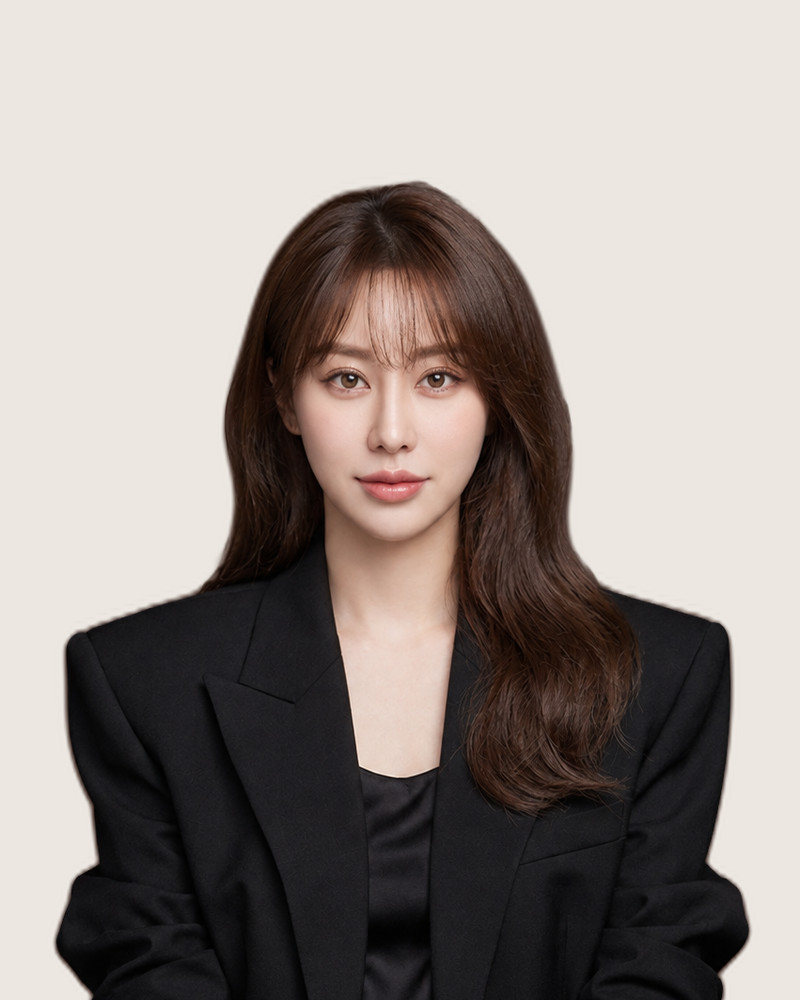
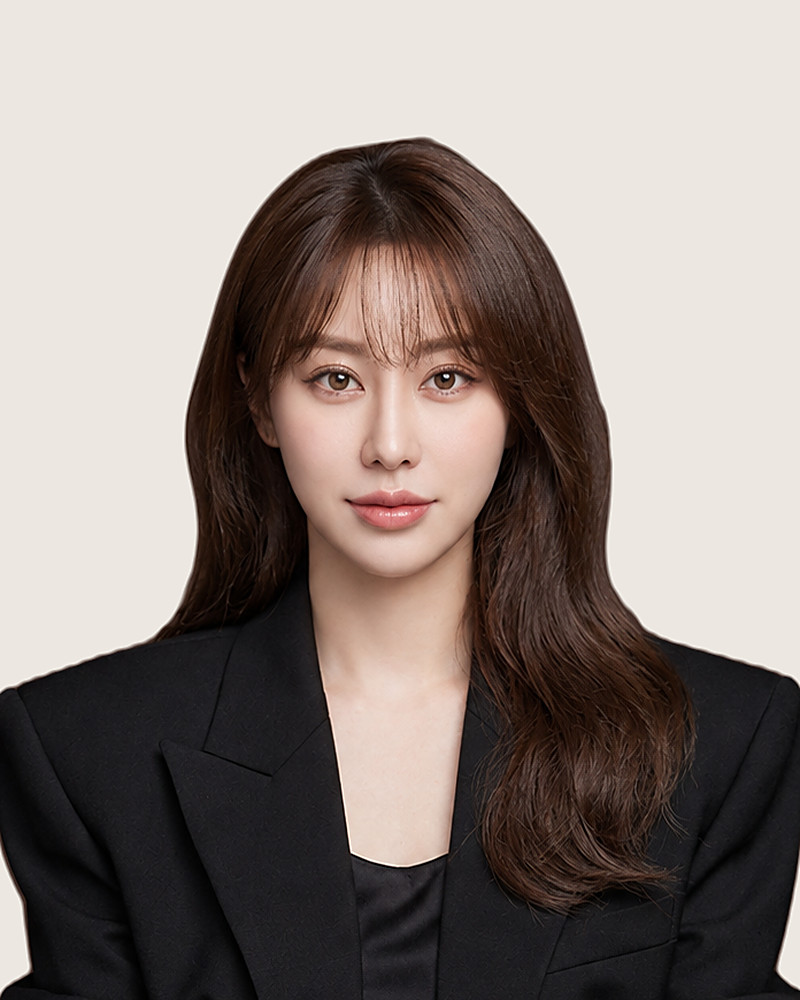
디자이너 사진 보정: 얼굴 비율 키우고 인물 경계 정리

diff --git a/ja/designers/index.html b/ja/designers/index.html
@@ -317,7 +317,7 @@
     <nav class="designer-jump" aria-label="デザイナーへ移動"><a href="#designer-hyeona"><span class="nw">Hyeona</span>（<span class="nw">현아</span>）<small>副院長</small></a><a href="#designer-yumi"><span class="nw">Yumi</span>（<span class="nw">유미</span>）<small><span class="nw">ディレクター</span></small></a><a href="#designer-yeongju"><span class="nw">Yeongju</span>（<span class="nw">영주</span>）<small><span class="nw">ディレクター</span></small></a><a href="#designer-miji"><span class="nw">Miji</span> Lee（<span class="nw">이미지</span>）<small>副院長</small></a></nav>
     <div class="designer-grid">
       <article class="designer-card" id="designer-hyeona">
-        <img src="/images/designer-hyeona.jpg?v=c38ec761" alt="清州市慕忠洞の美容室 RIAHN Hair Mochung SeowondaeのHyeona（현아） 副院長 - レイヤードCカール・CSカール・ビルドパーマ・ゼリーパーマ・ビンテージパーマ・アイロンパーマ・ホットパーマ・補修パーマ" width="800" height="1000" loading="eager" fetchpriority="high">
+        <img src="/images/designer-hyeona.jpg?v=c3d0188e" alt="清州市慕忠洞の美容室 RIAHN Hair Mochung SeowondaeのHyeona（현아） 副院長 - レイヤードCカール・CSカール・ビルドパーマ・ゼリーパーマ・ビンテージパーマ・アイロンパーマ・ホットパーマ・補修パーマ" width="800" height="1000" loading="eager" fetchpriority="high">
         <div class="designer-body">
           <div class="role"><span class="nw">Deputy</span> <span class="nw">Director</span></div>
           <h3><span class="ks"><span class="nw">Hyeona</span>（<span class="nw">현아</span>）</span> <small>副院長</small></h3>
@@ -328,7 +328,7 @@
         </div>
       </article>
       <article class="designer-card" id="designer-yumi">
-        <img src="/images/designer-yumi.jpg?v=abbf6bdf" alt="清州市慕忠洞の美容室 RIAHN Hair Mochung SeowondaeのYumi（유미） ディレクター - ビルドパーマ・ゼリーパーマ・ビンテージパーマ・補修パーマ・タッセルカット・ハッシュカット・ブリーチ・デザインカラー・パーソナルカラー" width="800" height="1000" loading="lazy">
+        <img src="/images/designer-yumi.jpg?v=b0565e35" alt="清州市慕忠洞の美容室 RIAHN Hair Mochung SeowondaeのYumi（유미） ディレクター - ビルドパーマ・ゼリーパーマ・ビンテージパーマ・補修パーマ・タッセルカット・ハッシュカット・ブリーチ・デザインカラー・パーソナルカラー" width="800" height="1000" loading="lazy">
         <div class="designer-body">
           <div class="role"><span class="nw">Director</span></div>
           <h3><span class="ks"><span class="nw">Yumi</span>（<span class="nw">유미</span>）</span> <small><span class="nw">ディレクター</span></small></h3>
@@ -340,7 +340,7 @@
         </div>
       </article>
       <article class="designer-card" id="designer-yeongju">
-        <img src="/images/designer-yeongju.jpg?v=1d1102d5" alt="清州市慕忠洞の美容室 RIAHN Hair Mochung SeowondaeのYeongju（영주） ディレクター - ビルドパーマ・リーフパーマ・アイロンパーマ・CSカール・リーフカット" width="800" height="1000" loading="lazy">
+        <img src="/images/designer-yeongju.jpg?v=ee4fe6c3" alt="清州市慕忠洞の美容室 RIAHN Hair Mochung SeowondaeのYeongju（영주） ディレクター - ビルドパーマ・リーフパーマ・アイロンパーマ・CSカール・リーフカット" width="800" height="1000" loading="lazy">
         <div class="designer-body">
           <div class="role"><span class="nw">Director</span></div>
           <h3><span class="ks"><span class="nw">Yeongju</span>（<span class="nw">영주</span>）</span> <small><span class="nw">ディレクター</span></small></h3>
@@ -352,7 +352,7 @@
         </div>
       </article>
       <article class="designer-card" id="designer-miji">
-        <img src="/images/designer-miji.jpg?v=108b34a3" alt="清州市慕忠洞の美容室 RIAHN Hair Mochung SeowondaeのMiji Lee（이미지） 副院長 - ビルドパーマ・CSパーマ・アイロンパーマ・リーフパーマ・毛流れ矯正・補修パーマ・ホットパーマ・アッシュグレー" width="800" height="1000" loading="lazy">
+        <img src="/images/designer-miji.jpg?v=d2a24d91" alt="清州市慕忠洞の美容室 RIAHN Hair Mochung SeowondaeのMiji Lee（이미지） 副院長 - ビルドパーマ・CSパーマ・アイロンパーマ・リーフパーマ・毛流れ矯正・補修パーマ・ホットパーマ・アッシュグレー" width="800" height="1000" loading="lazy">
         <div class="designer-body">
           <div class="role"><span class="nw">Deputy</span> <span class="nw">Director</span></div>
           <h3><span class="ks"><span class="nw">Miji</span> Lee（<span class="nw">이미지</span>）</span> <small>副院長</small></h3>

diff --git a/zh/designers/index.html b/zh/designers/index.html
@@ -317,7 +317,7 @@
     <nav class="designer-jump" aria-label="快速查看设计师"><a href="#designer-hyeona"><span class="nw">Hyeona</span>（<span class="nw">현아</span>）<small>副<span class="nw">院长</span></small></a><a href="#designer-yumi"><span class="nw">Yumi</span>（<span class="nw">유미</span>）<small><span class="nw">总监</span></small></a><a href="#designer-yeongju"><span class="nw">Yeongju</span>（<span class="nw">영주</span>）<small><span class="nw">总监</span></small></a><a href="#designer-miji"><span class="nw">Miji</span> Lee（<span class="nw">이미지</span>）<small>副<span class="nw">院长</span></small></a></nav>
     <div class="designer-grid">
       <article class="designer-card" id="designer-hyeona">
-        <img src="/images/designer-hyeona.jpg?v=c38ec761" alt="清州市慕忠洞美发沙龙 RIAHN Hair Mochung Seowondae Hyeona（현아） 副院长 - 层次C卷、CS卷、Build烫、果冻烫、复古烫、卷棒烫、热烫、修护烫" width="800" height="1000" loading="eager" fetchpriority="high">
+        <img src="/images/designer-hyeona.jpg?v=c3d0188e" alt="清州市慕忠洞美发沙龙 RIAHN Hair Mochung Seowondae Hyeona（현아） 副院长 - 层次C卷、CS卷、Build烫、果冻烫、复古烫、卷棒烫、热烫、修护烫" width="800" height="1000" loading="eager" fetchpriority="high">
         <div class="designer-body">
           <div class="role"><span class="nw">Deputy</span> <span class="nw">Director</span></div>
           <h3><span class="ks"><span class="nw">Hyeona</span>（<span class="nw">현아</span>）</span> <small>副<span class="nw">院长</span></small></h3>
@@ -328,7 +328,7 @@
         </div>
       </article>
       <article class="designer-card" id="designer-yumi">
-        <img src="/images/designer-yumi.jpg?v=abbf6bdf" alt="清州市慕忠洞美发沙龙 RIAHN Hair Mochung Seowondae Yumi（유미） 总监 - Build烫、果冻烫、复古烫、修护烫、流苏剪、Hush剪、漂发、设计染发、个人色彩染发" width="800" height="1000" loading="lazy">
+        <img src="/images/designer-yumi.jpg?v=b0565e35" alt="清州市慕忠洞美发沙龙 RIAHN Hair Mochung Seowondae Yumi（유미） 总监 - Build烫、果冻烫、复古烫、修护烫、流苏剪、Hush剪、漂发、设计染发、个人色彩染发" width="800" height="1000" loading="lazy">
         <div class="designer-body">
           <div class="role"><span class="nw">Director</span></div>
           <h3><span class="ks"><span class="nw">Yumi</span>（<span class="nw">유미</span>）</span> <small><span class="nw">总监</span></small></h3>
@@ -340,7 +340,7 @@
         </div>
       </article>
       <article class="designer-card" id="designer-yeongju">
-        <img src="/images/designer-yeongju.jpg?v=1d1102d5" alt="清州市慕忠洞美发沙龙 RIAHN Hair Mochung Seowondae Yeongju（영주） 总监 - Build烫、叶子烫、卷棒烫、CS卷、叶子剪" width="800" height="1000" loading="lazy">
+        <img src="/images/designer-yeongju.jpg?v=ee4fe6c3" alt="清州市慕忠洞美发沙龙 RIAHN Hair Mochung Seowondae Yeongju（영주） 总监 - Build烫、叶子烫、卷棒烫、CS卷、叶子剪" width="800" height="1000" loading="lazy">
         <div class="designer-body">
           <div class="role"><span class="nw">Director</span></div>
           <h3><span class="ks"><span class="nw">Yeongju</span>（<span class="nw">영주</span>）</span> <small><span class="nw">总监</span></small></h3>
@@ -352,7 +352,7 @@
         </div>
       </article>
       <article class="designer-card" id="designer-miji">
-        <img src="/images/designer-miji.jpg?v=108b34a3" alt="清州市慕忠洞美发沙龙 RIAHN Hair Mochung Seowondae Miji Lee（이미지） 副院长 - Build烫、CS烫、卷棒烫、叶子烫、发流矫正、修护烫、热烫、烟灰色" width="800" height="1000" loading="lazy">
+        <img src="/images/designer-miji.jpg?v=d2a24d91" alt="清州市慕忠洞美发沙龙 RIAHN Hair Mochung Seowondae Miji Lee（이미지） 副院长 - Build烫、CS烫、卷棒烫、叶子烫、发流矫正、修护烫、热烫、烟灰色" width="800" height="1000" loading="lazy">
         <div class="designer-body">
           <div class="role"><span class="nw">Deputy</span> <span class="nw">Director</span></div>
           <h3><span class="ks"><span class="nw">Miji</span> Lee（<span class="nw">이미지</span>）</span> <small>副<span class="nw">院长</span></small></h3>

diff --git a/en/designers/index.html b/en/designers/index.html
@@ -317,7 +317,7 @@
     <nav class="designer-jump" aria-label="Jump to a designer"><a href="#designer-hyeona">Hyeona<small>Deputy Director</small></a><a href="#designer-yumi">Yumi<small>Director</small></a><a href="#designer-yeongju">Yeongju<small>Director</small></a><a href="#designer-miji">Miji Lee<small>Deputy Director</small></a></nav>
     <div class="designer-grid">
       <article class="designer-card" id="designer-hyeona">
-        <img src="/images/designer-hyeona.jpg?v=c38ec761" alt="Hyeona, Deputy Director - Layered C-curl · CS curl · Build perm · Jelly perm · Vintage perm · Iron perm · Heat perm · Repair perm at RIAHN Hair Mochung Seowondae, Mochung-dong, Cheongju" width="800" height="1000" loading="eager" fetchpriority="high">
+        <img src="/images/designer-hyeona.jpg?v=c3d0188e" alt="Hyeona, Deputy Director - Layered C-curl · CS curl · Build perm · Jelly perm · Vintage perm · Iron perm · Heat perm · Repair perm at RIAHN Hair Mochung Seowondae, Mochung-dong, Cheongju" width="800" height="1000" loading="eager" fetchpriority="high">
         <div class="designer-body">
           <div class="role">Deputy Director</div>
           <h3><span class="ks">Hyeona</span> <small>Deputy Director</small></h3>
@@ -328,7 +328,7 @@
         </div>
       </article>
       <article class="designer-card" id="designer-yumi">
-        <img src="/images/designer-yumi.jpg?v=abbf6bdf" alt="Yumi, Director - Build perm · Jelly perm · Vintage perm · Repair perm · Tassel cut · Hush cut · Bleach · Design color · Personal color at RIAHN Hair Mochung Seowondae, Mochung-dong, Cheongju" width="800" height="1000" loading="lazy">
+        <img src="/images/designer-yumi.jpg?v=b0565e35" alt="Yumi, Director - Build perm · Jelly perm · Vintage perm · Repair perm · Tassel cut · Hush cut · Bleach · Design color · Personal color at RIAHN Hair Mochung Seowondae, Mochung-dong, Cheongju" width="800" height="1000" loading="lazy">
         <div class="designer-body">
           <div class="role">Director</div>
           <h3><span class="ks">Yumi</span> <small>Director</small></h3>
@@ -340,7 +340,7 @@
         </div>
       </article>
       <article class="designer-card" id="designer-yeongju">
-        <img src="/images/designer-yeongju.jpg?v=1d1102d5" alt="Yeongju, Director - Build perm · Leaf perm · Iron perm · CS curl · Leaf cut at RIAHN Hair Mochung Seowondae, Mochung-dong, Cheongju" width="800" height="1000" loading="lazy">
+        <img src="/images/designer-yeongju.jpg?v=ee4fe6c3" alt="Yeongju, Director - Build perm · Leaf perm · Iron perm · CS curl · Leaf cut at RIAHN Hair Mochung Seowondae, Mochung-dong, Cheongju" width="800" height="1000" loading="lazy">
         <div class="designer-body">
           <div class="role">Director</div>
           <h3><span class="ks">Yeongju</span> <small>Director</small></h3>
@@ -352,7 +352,7 @@
         </div>
       </article>
       <article class="designer-card" id="designer-miji">
-        <img src="/images/designer-miji.jpg?v=108b34a3" alt="Miji Lee, Deputy Director - Build perm · CS perm · Iron perm · Leaf perm · Cowlick correction · Repair perm · Heat perm · Ash gray at RIAHN Hair Mochung Seowondae, Mochung-dong, Cheongju" width="800" height="1000" loading="lazy">
+        <img src="/images/designer-miji.jpg?v=d2a24d91" alt="Miji Lee, Deputy Director - Build perm · CS perm · Iron perm · Leaf perm · Cowlick correction · Repair perm · Heat perm · Ash gray at RIAHN Hair Mochung Seowondae, Mochung-dong, Cheongju" width="800" height="1000" loading="lazy">
         <div class="designer-body">
           <div class="role">Deputy Director</div>
           <h3><span class="ks">Miji Lee</span> <small>Deputy Director</small></h3>

diff --git a/designers/index.html b/designers/index.html
@@ -327,7 +327,7 @@
     <nav class="designer-jump" aria-label="디자이너 바로 가기"><a href="#designer-hyeona">현아<small>부원장</small></a><a href="#designer-yumi">유미<small>실장</small></a><a href="#designer-yeongju">영주<small>실장</small></a><a href="#designer-miji">이미지<small>부원장</small></a></nav>
     <div class="designer-grid">
       <article class="designer-card" id="designer-hyeona">
-        <img src="/images/designer-hyeona.jpg?v=c38ec761" alt="리안헤어 모충동서원대점 모충동 미용실 현아 부원장 - 레이어드 C컬 · CS컬 · 빌드펌 · 젤리펌 · 빈티지펌 · 아이롱펌 · 열펌 · 복구펌" width="800" height="1000" loading="eager" fetchpriority="high">
+        <img src="/images/designer-hyeona.jpg?v=c3d0188e" alt="리안헤어 모충동서원대점 모충동 미용실 현아 부원장 - 레이어드 C컬 · CS컬 · 빌드펌 · 젤리펌 · 빈티지펌 · 아이롱펌 · 열펌 · 복구펌" width="800" height="1000" loading="eager" fetchpriority="high">
         <div class="designer-body">
           <div class="role">Deputy Director</div>
           <h3><span class="ks">현아</span> <small>부원장</small></h3>
@@ -338,7 +338,7 @@
         </div>
       </article>
       <article class="designer-card" id="designer-yumi">
-        <img src="/images/designer-yumi.jpg?v=abbf6bdf" alt="리안헤어 모충동서원대점 모충동 미용실 유미 실장 - 빌드펌 · 젤리펌 · 빈티지펌 · 복구펌 · 태슬컷 · 허쉬컷 · 탈색 · 디자인 염색 · 퍼스널 컬러" width="800" height="1000" loading="lazy">
+        <img src="/images/designer-yumi.jpg?v=b0565e35" alt="리안헤어 모충동서원대점 모충동 미용실 유미 실장 - 빌드펌 · 젤리펌 · 빈티지펌 · 복구펌 · 태슬컷 · 허쉬컷 · 탈색 · 디자인 염색 · 퍼스널 컬러" width="800" height="1000" loading="lazy">
         <div class="designer-body">
           <div class="role">Director</div>
           <h3><span class="ks">유미</span> <small>실장</small></h3>
@@ -350,7 +350,7 @@
         </div>
       </article>
       <article class="designer-card" id="designer-yeongju">
-        <img src="/images/designer-yeongju.jpg?v=1d1102d5" alt="리안헤어 모충동서원대점 모충동 미용실 영주 실장 - 빌드펌 · 리프펌 · 아이롱펌 · CS컬 · 리프컷" width="800" height="1000" loading="lazy">
+        <img src="/images/designer-yeongju.jpg?v=ee4fe6c3" alt="리안헤어 모충동서원대점 모충동 미용실 영주 실장 - 빌드펌 · 리프펌 · 아이롱펌 · CS컬 · 리프컷" width="800" height="1000" loading="lazy">
         <div class="designer-body">
           <div class="role">Director</div>
           <h3><span class="ks">영주</span> <small>실장</small></h3>
@@ -362,7 +362,7 @@
         </div>
       </article>
       <article class="designer-card" id="designer-miji">
-        <img src="/images/designer-miji.jpg?v=108b34a3" alt="리안헤어 모충동서원대점 모충동 미용실 이미지 부원장 - 빌드펌 · CS펌 · 아이롱펌 · 리프펌 · 모류교정 · 복구펌 · 열펌 · 애쉬그레이" width="800" height="1000" loading="lazy">
+        <img src="/images/designer-miji.jpg?v=d2a24d91" alt="리안헤어 모충동서원대점 모충동 미용실 이미지 부원장 - 빌드펌 · CS펌 · 아이롱펌 · 리프펌 · 모류교정 · 복구펌 · 열펌 · 애쉬그레이" width="800" height="1000" loading="lazy">
         <div class="designer-body">
           <div class="role">Deputy Director</div>
           <h3><span class="ks">이미지</span> <small>부원장</small></h3>

diff --git a/ja/index.html b/ja/index.html
@@ -312,7 +312,7 @@
     </div>
     <div class="designer-grid">
       <article class="designer-card">
-        <img src="/images/designer-hyeona.jpg?v=c38ec761" alt="清州市慕忠洞の美容室 RIAHN Hair Mochung SeowondaeのHyeona（현아） 副院長 - レイヤードCカール・CSカール・ビルドパーマ・ゼリーパーマ・ビンテージパーマ・アイロンパーマ・ホットパーマ・補修パーマ" width="800" height="1000" loading="lazy">
+        <img src="/images/designer-hyeona.jpg?v=c3d0188e" alt="清州市慕忠洞の美容室 RIAHN Hair Mochung SeowondaeのHyeona（현아） 副院長 - レイヤードCカール・CSカール・ビルドパーマ・ゼリーパーマ・ビンテージパーマ・アイロンパーマ・ホットパーマ・補修パーマ" width="800" height="1000" loading="lazy">
         <div class="designer-body">
           <div class="role"><span class="nw">Deputy</span> <span class="nw">Director</span></div>
           <h3><span class="ks"><span class="nw">Hyeona</span>（<span class="nw">현아</span>）</span> <small>副院長</small></h3>
@@ -320,7 +320,7 @@
         </div>
       </article>
       <article class="designer-card">
-        <img src="/images/designer-yumi.jpg?v=abbf6bdf" alt="清州市慕忠洞の美容室 RIAHN Hair Mochung SeowondaeのYumi（유미） ディレクター - ビルドパーマ・ゼリーパーマ・ビンテージパーマ・補修パーマ・タッセルカット・ハッシュカット・ブリーチ・デザインカラー・パーソナルカラー" width="800" height="1000" loading="lazy">
+        <img src="/images/designer-yumi.jpg?v=b0565e35" alt="清州市慕忠洞の美容室 RIAHN Hair Mochung SeowondaeのYumi（유미） ディレクター - ビルドパーマ・ゼリーパーマ・ビンテージパーマ・補修パーマ・タッセルカット・ハッシュカット・ブリーチ・デザインカラー・パーソナルカラー" width="800" height="1000" loading="lazy">
         <div class="designer-body">
           <div class="role"><span class="nw">Director</span></div>
           <h3><span class="ks"><span class="nw">Yumi</span>（<span class="nw">유미</span>）</span> <small><span class="nw">ディレクター</span></small></h3>
@@ -329,7 +329,7 @@
         </div>
       </article>
       <article class="designer-card">
-        <img src="/images/designer-yeongju.jpg?v=1d1102d5" alt="清州市慕忠洞の美容室 RIAHN Hair Mochung SeowondaeのYeongju（영주） ディレクター - ビルドパーマ・リーフパーマ・アイロンパーマ・CSカール・リーフカット" width="800" height="1000" loading="lazy">
+        <img src="/images/designer-yeongju.jpg?v=ee4fe6c3" alt="清州市慕忠洞の美容室 RIAHN Hair Mochung SeowondaeのYeongju（영주） ディレクター - ビルドパーマ・リーフパーマ・アイロンパーマ・CSカール・リーフカット" width="800" height="1000" loading="lazy">
         <div class="designer-body">
           <div class="role"><span class="nw">Director</span></div>
           <h3><span class="ks"><span class="nw">Yeongju</span>（<span class="nw">영주</span>）</span> <small><span class="nw">ディレクター</span></small></h3>

diff --git a/zh/index.html b/zh/index.html
@@ -312,7 +312,7 @@
     </div>
     <div class="designer-grid">
       <article class="designer-card">
-        <img src="/images/designer-hyeona.jpg?v=c38ec761" alt="清州市慕忠洞美发沙龙 RIAHN Hair Mochung Seowondae Hyeona（현아） 副院长 - 层次C卷、CS卷、Build烫、果冻烫、复古烫、卷棒烫、热烫、修护烫" width="800" height="1000" loading="lazy">
+        <img src="/images/designer-hyeona.jpg?v=c3d0188e" alt="清州市慕忠洞美发沙龙 RIAHN Hair Mochung Seowondae Hyeona（현아） 副院长 - 层次C卷、CS卷、Build烫、果冻烫、复古烫、卷棒烫、热烫、修护烫" width="800" height="1000" loading="lazy">
         <div class="designer-body">
           <div class="role"><span class="nw">Deputy</span> <span class="nw">Director</span></div>
           <h3><span class="ks"><span class="nw">Hyeona</span>（<span class="nw">현아</span>）</span> <small>副<span class="nw">院长</span></small></h3>
@@ -320,7 +320,7 @@
         </div>
       </article>
       <article class="designer-card">
-        <img src="/images/designer-yumi.jpg?v=abbf6bdf" alt="清州市慕忠洞美发沙龙 RIAHN Hair Mochung Seowondae Yumi（유미） 总监 - Build烫、果冻烫、复古烫、修护烫、流苏剪、Hush剪、漂发、设计染发、个人色彩染发" width="800" height="1000" loading="lazy">
+        <img src="/images/designer-yumi.jpg?v=b0565e35" alt="清州市慕忠洞美发沙龙 RIAHN Hair Mochung Seowondae Yumi（유미） 总监 - Build烫、果冻烫、复古烫、修护烫、流苏剪、Hush剪、漂发、设计染发、个人色彩染发" width="800" height="1000" loading="lazy">
         <div class="designer-body">
           <div class="role"><span class="nw">Director</span></div>
           <h3><span class="ks"><span class="nw">Yumi</span>（<span class="nw">유미</span>）</span> <small><span class="nw">总监</span></small></h3>
@@ -329,7 +329,7 @@
         </div>
       </article>
       <article class="designer-card">
-        <img src="/images/designer-yeongju.jpg?v=1d1102d5" alt="清州市慕忠洞美发沙龙 RIAHN Hair Mochung Seowondae Yeongju（영주） 总监 - Build烫、叶子烫、卷棒烫、CS卷、叶子剪" width="800" height="1000" loading="lazy">
+        <img src="/images/designer-yeongju.jpg?v=ee4fe6c3" alt="清州市慕忠洞美发沙龙 RIAHN Hair Mochung Seowondae Yeongju（영주） 总监 - Build烫、叶子烫、卷棒烫、CS卷、叶子剪" width="800" height="1000" loading="lazy">
         <div class="designer-body">
           <div class="role"><span class="nw">Director</span></div>
           <h3><span class="ks"><span class="nw">Yeongju</span>（<span class="nw">영주</span>）</span> <small><span class="nw">总监</span></small></h3>

diff --git a/en/index.html b/en/index.html
@@ -312,7 +312,7 @@
     </div>
     <div class="designer-grid">
       <article class="designer-card">
-        <img src="/images/designer-hyeona.jpg?v=c38ec761" alt="Hyeona, Deputy Director - Layered C-curl · CS curl · Build perm · Jelly perm · Vintage perm · Iron perm · Heat perm · Repair perm at RIAHN Hair Mochung Seowondae, Mochung-dong, Cheongju" width="800" height="1000" loading="lazy">
+        <img src="/images/designer-hyeona.jpg?v=c3d0188e" alt="Hyeona, Deputy Director - Layered C-curl · CS curl · Build perm · Jelly perm · Vintage perm · Iron perm · Heat perm · Repair perm at RIAHN Hair Mochung Seowondae, Mochung-dong, Cheongju" width="800" height="1000" loading="lazy">
         <div class="designer-body">
           <div class="role">Deputy Director</div>
           <h3><span class="ks">Hyeona</span> <small>Deputy Director</small></h3>
@@ -320,7 +320,7 @@
         </div>
       </article>
       <article class="designer-card">
-        <img src="/images/designer-yumi.jpg?v=abbf6bdf" alt="Yumi, Director - Build perm · Jelly perm · Vintage perm · Repair perm · Tassel cut · Hush cut · Bleach · Design color · Personal color at RIAHN Hair Mochung Seowondae, Mochung-dong, Cheongju" width="800" height="1000" loading="lazy">
+        <img src="/images/designer-yumi.jpg?v=b0565e35" alt="Yumi, Director - Build perm · Jelly perm · Vintage perm · Repair perm · Tassel cut · Hush cut · Bleach · Design color · Personal color at RIAHN Hair Mochung Seowondae, Mochung-dong, Cheongju" width="800" height="1000" loading="lazy">
         <div class="designer-body">
           <div class="role">Director</div>
           <h3><span class="ks">Yumi</span> <small>Director</small></h3>
@@ -329,7 +329,7 @@
         </div>
       </article>
       <article class="designer-card">
-        <img src="/images/designer-yeongju.jpg?v=1d1102d5" alt="Yeongju, Director - Build perm · Leaf perm · Iron perm · CS curl · Leaf cut at RIAHN Hair Mochung Seowondae, Mochung-dong, Cheongju" width="800" height="1000" loading="lazy">
+        <img src="/images/designer-yeongju.jpg?v=ee4fe6c3" alt="Yeongju, Director - Build perm · Leaf perm · Iron perm · CS curl · Leaf cut at RIAHN Hair Mochung Seowondae, Mochung-dong, Cheongju" width="800" height="1000" loading="lazy">
         <div class="designer-body">
           <div class="role">Director</div>
           <h3><span class="ks">Yeongju</span> <small>Director</small></h3>

diff --git a/index.html b/index.html
@@ -314,7 +314,7 @@
     </div>
     <div class="designer-grid">
       <article class="designer-card">
-        <img src="/images/designer-hyeona.jpg?v=c38ec761" alt="리안헤어 모충동서원대점 모충동 미용실 현아 부원장 - 레이어드 C컬 · CS컬 · 빌드펌 · 젤리펌 · 빈티지펌 · 아이롱펌 · 열펌 · 복구펌" width="800" height="1000" loading="lazy">
+        <img src="/images/designer-hyeona.jpg?v=c3d0188e" alt="리안헤어 모충동서원대점 모충동 미용실 현아 부원장 - 레이어드 C컬 · CS컬 · 빌드펌 · 젤리펌 · 빈티지펌 · 아이롱펌 · 열펌 · 복구펌" width="800" height="1000" loading="lazy">
         <div class="designer-body">
           <div class="role">Deputy Director</div>
           <h3><span class="ks">현아</span> <small>부원장</small></h3>
@@ -322,7 +322,7 @@
         </div>
       </article>
       <article class="designer-card">
-        <img src="/images/designer-yumi.jpg?v=abbf6bdf" alt="리안헤어 모충동서원대점 모충동 미용실 유미 실장 - 빌드펌 · 젤리펌 · 빈티지펌 · 복구펌 · 태슬컷 · 허쉬컷 · 탈색 · 디자인 염색 · 퍼스널 컬러" width="800" height="1000" loading="lazy">
+        <img src="/images/designer-yumi.jpg?v=b0565e35" alt="리안헤어 모충동서원대점 모충동 미용실 유미 실장 - 빌드펌 · 젤리펌 · 빈티지펌 · 복구펌 · 태슬컷 · 허쉬컷 · 탈색 · 디자인 염색 · 퍼스널 컬러" width="800" height="1000" loading="lazy">
         <div class="designer-body">
           <div class="role">Director</div>
           <h3><span class="ks">유미</span> <small>실장</small></h3>
@@ -331,7 +331,7 @@
         </div>
       </article>
       <article class="designer-card">
-        <img src="/images/designer-yeongju.jpg?v=1d1102d5" alt="리안헤어 모충동서원대점 모충동 미용실 영주 실장 - 빌드펌 · 리프펌 · 아이롱펌 · CS컬 · 리프컷" width="800" height="1000" loading="lazy">
+        <img src="/images/designer-yeongju.jpg?v=ee4fe6c3" alt="리안헤어 모충동서원대점 모충동 미용실 영주 실장 - 빌드펌 · 리프펌 · 아이롱펌 · CS컬 · 리프컷" width="800" height="1000" loading="lazy">
         <div class="designer-body">
           <div class="role">Director</div>
           <h3><span class="ks">영주</span> <small>실장</small></h3>
